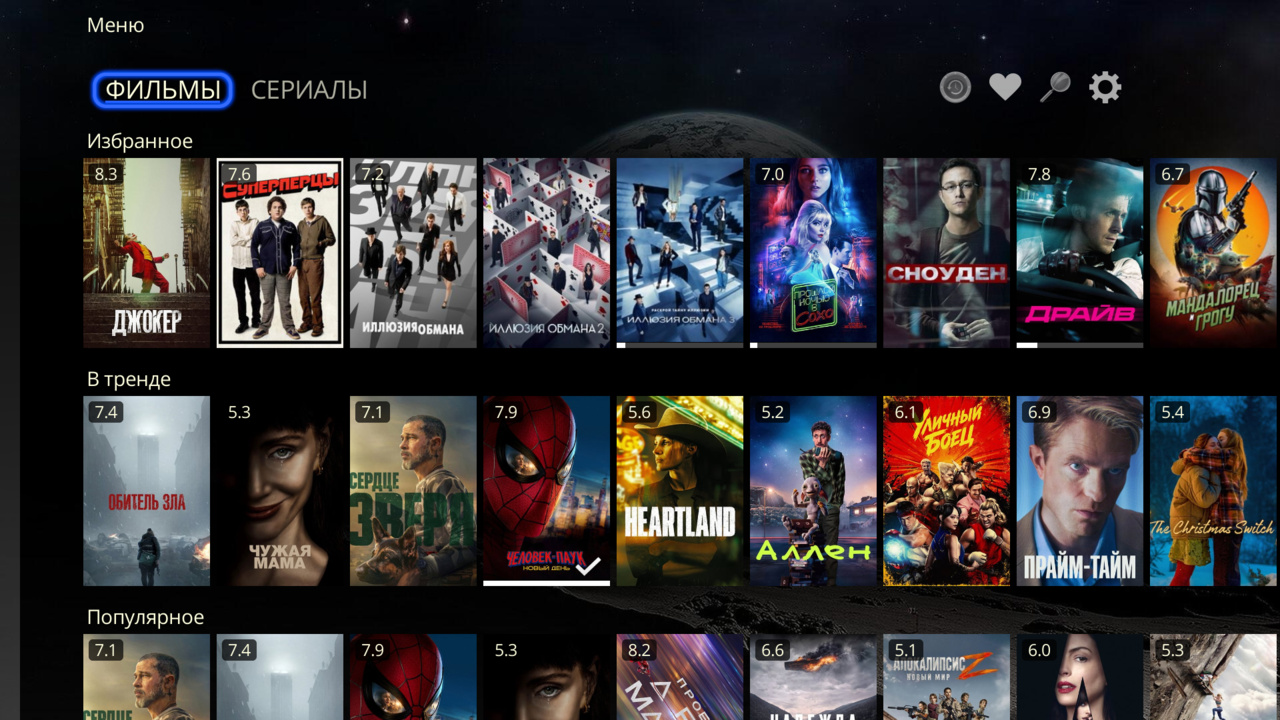
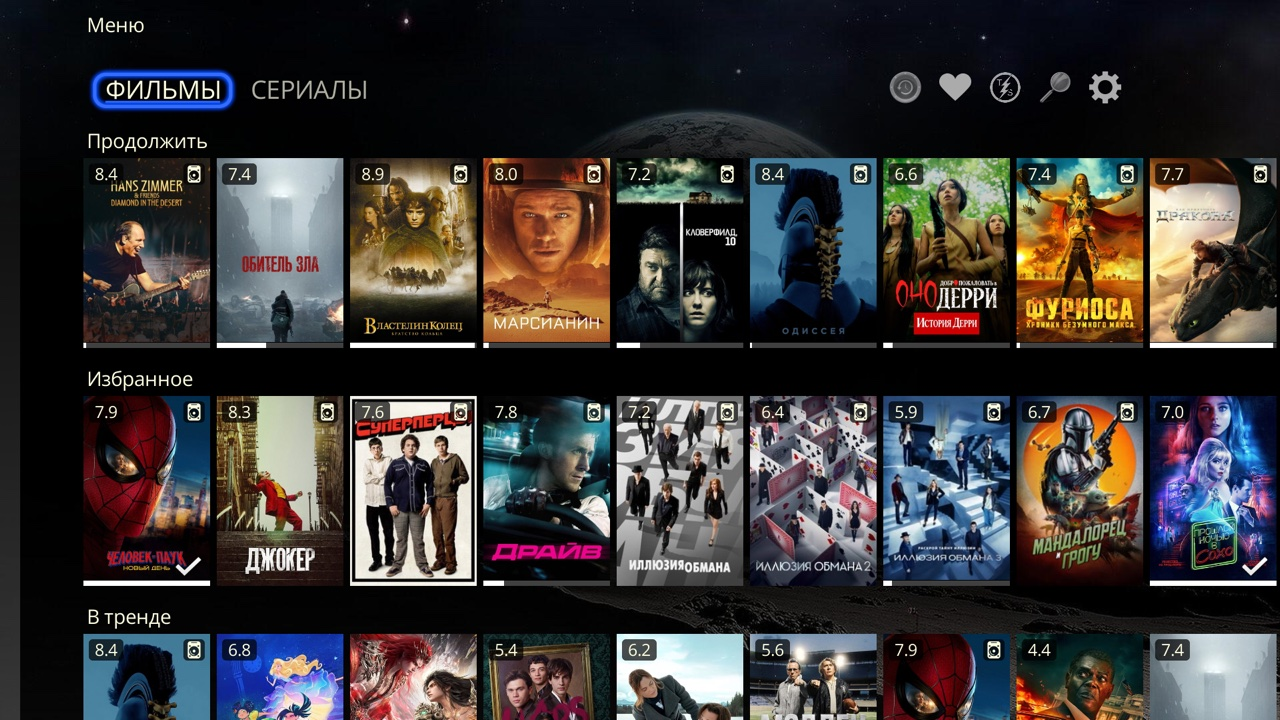
docs: кадры раздела «На TorrServer», переснятые кадры каталога

diff --git a/docs/favorites.md b/docs/favorites.md
@@ -20,11 +20,11 @@
 
 5. Часы на полосе сверху каталога открывают всё начатое: фильмы и сериалы вместе. То же открывает пункт «Продолжить» в **POP UP**.
 
-   <img src="../screenshots/progress-clock.jpg" alt="Каталог, вкладка «Сериалы»: фокус на часах на полосе сверху, слева от сердечка, ниже ряды «Продолжить» и «Избранное»" width="100%">
+   <img src="../screenshots/progress-clock.jpg" alt="Каталог, вкладка «Сериалы»: на полосе сверху часы, сердечко, значок TorrServer, лупа и шестерёнка, фокус на часах, ниже ряды «Продолжить» и «Избранное»" width="100%">
 
 6. Экран «Избранное» открывает сердечко на полосе сверху, между часами и значком TorrServer. Если на пульте есть кнопки **Fav**, то **Fav 2** (сердечко) тоже откроет «Избранное», а **Fav 1** — все начатые. Полный список ряда открывает и **ENTER** на его названии.
 
-   <img src="../screenshots/progress-heart.jpg" alt="Каталог, вкладка «Сериалы»: фокус на сердечке на полосе сверху, ниже ряды «Продолжить» и «Избранное»" width="100%">
+   <img src="../screenshots/progress-heart.jpg" alt="Каталог, вкладка «Сериалы»: фокус на сердечке на полосе сверху, между часами и значком TorrServer, ниже ряды «Продолжить» и «Избранное»" width="100%">
 
    Откроется экран «Избранное» со всеми фильмами и сериалами.
 
@@ -32,7 +32,7 @@
 
 7. На постере нажмите **POP UP**: в меню можно добавить в «Избранное» или убрать оттуда, отметить просмотренным или снять отметку, а в ряду «Продолжить» — убрать из него. Чтобы вернуть всё убранное разом, выберите «Вернуть убранные» в **POP UP** на экране «Продолжить» (его открывают часы на полосе).
 
-   <img src="../screenshots/progress-popup.jpg" alt="POP UP на «Игре престолов» в ряду «Продолжить»: «Убрать из «Продолжить»», «Отметить просмотренным», «Убрать из избранного», ниже «Фильмы», «Сериалы», «Продолжить», «Избранное», «Поиск», «Настройки»" width="100%">
+   <img src="../screenshots/progress-popup.jpg" alt="POP UP на «Игре престолов» в ряду «Продолжить»: «Смотреть из...», «Убрать из «Продолжить»», «Отметить просмотренным», «Убрать из избранного», ниже «Фильмы», «Сериалы», «Продолжить», «Избранное», «На TorrServer», «Поиск», «Настройки»" width="100%">
 
 8. «Избранное» Melange своё, оно не связано с «Избранным» Дюны. Чтобы перенести туда фильмы и сериалы из «Избранного» Дюны, на экране «Избранное» нажмите **POP UP** на плитке (в пустом — на плитке с сердечком) и выберите «Добавить из «Избранного» Дюны». Появится «Добавлено из «Избранного» Дюны: N».
 

diff --git a/docs/favorites.en.md b/docs/favorites.en.md
@@ -20,11 +20,11 @@ Melange keeps what you started and what you saved for later in the first catalog
 
 5. The clock on the top bar of the catalog opens everything you started, movies and series together. "Continue Watching" in **POP UP** opens it too.
 
-   <img src="../screenshots/progress-clock.jpg" alt="Catalog, Series tab: focus on the clock on the top bar, left of the heart, Continue Watching and Favorites rows below" width="100%">
+   <img src="../screenshots/progress-clock.jpg" alt="Catalog, Series tab: clock, heart, TorrServer icon, magnifier and gear on the top bar, focus on the clock, Continue Watching and Favorites rows below" width="100%">
 
 6. The heart on the top bar, between the clock and the TorrServer icon, opens the Favorites screen. If your remote has **Fav** buttons, **Fav 2** (the heart) opens Favorites too, and **Fav 1** opens everything you started. **ENTER** on a row's name opens the whole row.
 
-   <img src="../screenshots/progress-heart.jpg" alt="Catalog, Series tab: focus on the heart on the top bar, Continue Watching and Favorites rows below" width="100%">
+   <img src="../screenshots/progress-heart.jpg" alt="Catalog, Series tab: focus on the heart on the top bar, between the clock and the TorrServer icon, Continue Watching and Favorites rows below" width="100%">
 
    The Favorites screen opens with all your movies and series.
 
@@ -32,7 +32,7 @@ Melange keeps what you started and what you saved for later in the first catalog
 
 7. On a poster, press **POP UP** to add it to Favorites or remove it, mark it as watched or unwatched, or, in Continue Watching, remove it from the row. To bring everything removed back at once, choose "Restore removed" in **POP UP** on the Continue Watching screen (the clock on the top bar opens it).
 
-   <img src="../screenshots/progress-popup.jpg" alt="POP UP on Game of Thrones in Continue Watching: Remove from Continue Watching, Mark as watched, Remove from Favorites, then Movies, Series, Continue Watching, Favorites, Search, Settings" width="100%">
+   <img src="../screenshots/progress-popup.jpg" alt="POP UP on Game of Thrones in Continue Watching: Watch from…, Remove from Continue Watching, Mark as watched, Remove from Favorites, then Movies, Series, Continue Watching, Favorites, On TorrServer, Search, Settings" width="100%">
 
 8. Melange Favorites is separate from Dune Favorites. To bring movies and series over from Dune Favorites, on the Favorites screen press **POP UP** on a tile (on the empty screen, the heart tile) and choose "Add from Dune Favorites". You see "Added from Dune Favorites: N".
 

diff --git a/docs/torrserver.md b/docs/torrserver.md
@@ -30,21 +30,21 @@
 
 1. На вкладке «Фильмы» или «Сериалы» откройте раздел «На TorrServer» (серый круг с молнией на полосе сверху, после сердечка) или выберите его в **POP UP**.
 
-   <!-- кадр: каталог, фокус на значке TorrServer на полосе сверху -->
+   <img src="../screenshots/ts-strip.jpg" alt="Каталог, вкладка «Фильмы»: фокус на значке TorrServer на полосе сверху, между сердечком и лупой" width="100%">
 
 2. На экране все раздачи TorrServer, свежие сверху.
 
-   <!-- кадр: экран «На TorrServer», плитки раздач, над рядами название и «Добавлено …» -->
+   <img src="../screenshots/ts-section.jpg" alt="Экран «На TorrServer»: плитки раздач, фокус на «Дом Дракона S03E02», над рядами «4 файла · 35.4 ГБ» и «Добавлено 11 ноября»" width="100%">
 
 3. Фильм: нажмите **ENTER**, запустится плеер.
 
 4. Сериал или пак: нажмите **ENTER** и выберите файл. Курсор уже стоит на следующей непросмотренной серии, просмотренные отмечены галочкой. Дальше серии идут по порядку (**P+**/**P−**).
 
-   <!-- кадр: экран файлов сериала, сезоны группами, галочки, фокус на следующей серии -->
+   <img src="../screenshots/ts-files.jpg" alt="Файлы раздачи «Игра престолов / Game of Thrones»: сезоны группами, у S02E01–E03 галочки, фокус на S02E04" width="100%">
 
 5. В следующий раз плеер сам предложит «Продолжить». Раздача появится и в «Последнем» на главном экране Дюны.
 
-   <!-- кадр: «Последнее» на главном экране Дюны с раздачей из Melange -->
+   <img src="../screenshots/ts-recent.jpg" alt="«Последнее» на главном экране Дюны: сверху «Игра престолов / Game of …» с #13 и 1%" width="100%">
 
 Melange не меняет и не удаляет раздачи на TorrServer.
 

diff --git a/docs/torrserver.en.md b/docs/torrserver.en.md
@@ -30,21 +30,21 @@ Torrents already on TorrServer (added from a phone via NUM, KinoTrend, Lampa, or
 
 1. On the Movies or Series tab, open "On TorrServer" (the grey circle with a lightning bolt on the top bar, after the heart) or choose it in **POP UP**.
 
-   <!-- frame: catalog, focus on the TorrServer icon on the top bar -->
+   <img src="../screenshots/ts-strip.jpg" alt="Catalog, Movies tab: focus on the TorrServer icon on the top bar, between the heart and the magnifier" width="100%">
 
 2. The screen shows all TorrServer torrents, newest first.
 
-   <!-- frame: "On TorrServer" screen, torrent tiles, title and "Added …" above the rows -->
+   <img src="../screenshots/ts-section.jpg" alt="On TorrServer screen: torrent tiles, focus on Дом Дракона S03E02, above the rows 4 files · 35.4 GB and the date added" width="100%">
 
 3. A movie: press **ENTER** and the player starts.
 
 4. A series or a pack: press **ENTER** and choose a file. The cursor is already on the next unwatched episode; watched ones have a check mark. Episodes then play in order (**P+**/**P−**).
 
-   <!-- frame: series file screen, seasons as groups, check marks, focus on the next episode -->
+   <img src="../screenshots/ts-files.jpg" alt="Files of Игра престолов / Game of Thrones: seasons as groups, check marks on S02E01–E03, focus on S02E04" width="100%">
 
 5. Next time the player offers "Continue" by itself. The torrent also shows up in "Recent" on the Dune home screen.
 
-   <!-- frame: "Recent" on the Dune home screen with a torrent from Melange -->
+   <img src="../screenshots/ts-recent.jpg" alt="Recent on the Dune home screen: Игра престолов / Game of … at the top with #13 and 1%" width="100%">
 
 Melange does not change or delete torrents on TorrServer.
 

diff --git a/docs/start.md b/docs/start.md
@@ -72,7 +72,7 @@ Melange — каталог фильмов и сериалов для Dune HD. В
 
 4. Откроется каталог Melange: можно выбирать фильм.
 
-   <img src="../screenshots/catalog.jpg" alt="Каталог Melange: сверху вкладки «Фильмы» и «Сериалы», справа часы, сердечко, лупа и шестерёнка, ниже ряды «Избранное», «В тренде», «Популярное»" width="100%">
+   <img src="../screenshots/catalog.jpg" alt="Каталог Melange: сверху вкладки «Фильмы» и «Сериалы», справа часы, сердечко, значок TorrServer, лупа и шестерёнка, ниже ряды «Продолжить», «Избранное», «В тренде»" width="100%">
 
    Если появилось «TorrServer не отвечает», откройте TorrServe (он запустит сервер), потом снова Melange. Не помогло — проверьте шаг 1.
 

diff --git a/docs/watch.md b/docs/watch.md
@@ -6,7 +6,7 @@
 
 1. В каталоге Melange выберите вкладку «Фильмы» или «Сериалы» на полосе сверху.
 
-   <img src="../screenshots/watch-tabs.jpg" alt="Каталог Melange: фокус на вкладке «Фильмы», справа часы, сердечко, лупа и шестерёнка" width="100%">
+   <img src="../screenshots/watch-tabs.jpg" alt="Каталог Melange: фокус на вкладке «Фильмы», справа часы, сердечко, значок TorrServer, лупа и шестерёнка" width="100%">
 
 2. Выберите фильм в рядах или найдите по названию ([Поиск](search.md)).
 

diff --git a/docs/start.en.md b/docs/start.en.md
@@ -72,7 +72,7 @@ Next: [first setup](#first-setup).
 
 4. The Melange catalog opens: you can pick a movie.
 
-   <img src="../screenshots/catalog.jpg" alt="Melange catalog: Movies and Series tabs at the top, clock, heart, magnifier and gear on the right, Favorites, Trending and other rows below" width="100%">
+   <img src="../screenshots/catalog.jpg" alt="Melange catalog: Movies and Series tabs at the top, clock, heart, TorrServer icon, magnifier and gear on the right, Continue Watching, Favorites and Trending rows below" width="100%">
 
    If you see "TorrServer does not answer", open TorrServe (it starts the server), then Melange again. If that does not help, check step 1.
 

diff --git a/docs/watch.en.md b/docs/watch.en.md
@@ -6,7 +6,7 @@ Find and play a movie, then continue from the same spot. [← Contents](README.e
 
 1. In the Melange catalog, choose the "Movies" or "Series" tab on the bar at the top.
 
-   <img src="../screenshots/watch-tabs.jpg" alt="Melange catalog: focus on the Movies tab, clock, heart, magnifier and gear on the right" width="100%">
+   <img src="../screenshots/watch-tabs.jpg" alt="Melange catalog: focus on the Movies tab, clock, heart, TorrServer icon, magnifier and gear on the right" width="100%">
 
 2. Pick a movie in the rows or find it by title ([Search](search.en.md)).
 
